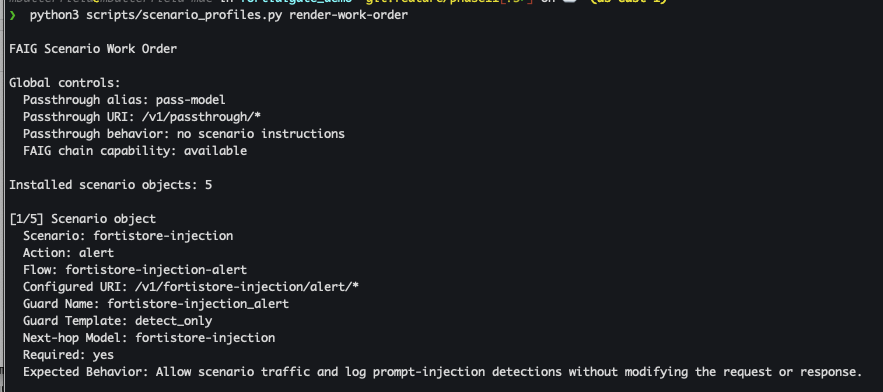
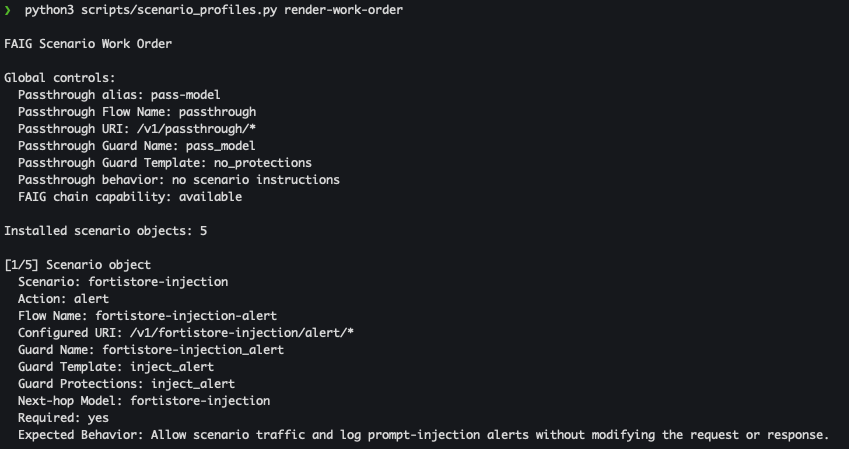
phase11-prerc1-workstream4 finalize scenario GUI guide

Changed region(s): [[0.0, 0.0, 0.98, 1.0], [0.6125, 0.0, 0.735, 0.0306]]

diff --git a/docs/fortiaigate-gui-config.md b/docs/fortiaigate-gui-config.md
@@ -64,13 +64,9 @@ Guard and flow display names can be changed locally, but the configured URI
 and next-hop model alias must match the work order. Keeping the suggested names
 makes troubleshooting and telemetry correlation substantially easier.
 
-> **Screenshot placeholder — `faig-scenario-work-order-map`**
->
-> Expected filename: `images/fortiaigate/faig-scenario-work-order-map.png`
->
-> Caption: Map the generated terminal work-order entry into FortiAIGate objects.
->
-> Capture: A tightly cropped terminal work-order entry showing Scenario, Action, Flow Name, Configured URI, Guard Name, Guard Template, Guard Protections, Next-hop Model, and Expected Behavior. Include the final relative `Markdown version:` path; exclude warnings containing addresses and unrelated scenarios.
+![Generated FAIG scenario work order](images/fortiaigate/faig-scenario-work-order-map.png)
+
+*Map the generated terminal work-order entry into FortiAIGate objects.*
 
 ## Request-Path Model
 
@@ -140,17 +136,14 @@ Different actions for the same scenario normally share the same model alias.
 The guard policy—not a different backend instruction set—creates the Alert,
 Deny, or Redact comparison.
 
-> **Screenshot placeholder — `faig-scenario-guard-base`**
->
-> Expected filename: `images/fortiaigate/faig-scenario-guard-base.png`
->
-> Caption: Create `{{guard_name}}`, configure its OpenAI private LiteLLM Endpoint and display pricing, and select `{{model_alias}}` as its next hop.
->
-> Capture: The guard page with literal `{{guard_name}}` and `{{model_alias}}` values where free-text fields permit them, OpenAI selected, Private endpoint enabled, `{{litellm_url}}` in Endpoint, and demonstration token costs populated. Keep the LiteLLM key masked.
+![Create the scenario AI Guard](images/fortiaigate/faig-scenario-guard-base.png)
 
-### Test Model Connectivity
+*Create `{{guard_name}}`, configure its OpenAI private LiteLLM Endpoint and
+display pricing, and select `{{model_alias}}` as its next hop.*
 
-Click **Test Model** before configuring protection. This test checks only the
+### Test Connectivity
+
+Click **Test Connectivity** before configuring protection. This test checks only the
 API key, model alias, endpoint, and connectivity from FortiAIGate to LiteLLM.
 It does not exercise the guard's Alert, Deny, or Redact policy and does not
 validate a scenario fixture.
@@ -158,13 +151,9 @@ validate a scenario fixture.
 Use a short synthetic prompt and correct the connection fields until the model
 test succeeds.
 
-> **Screenshot placeholder — `faig-scenario-guard-test`**
->
-> Expected filename: `images/fortiaigate/faig-scenario-guard-test.png`
->
-> Caption: Confirm the scenario guard's API key, model alias, Endpoint, and connectivity with Test Model.
->
-> Capture: A successful Test Model result with `{{guard_name}}` and `{{model_alias}}` visible. Use a short synthetic prompt and omit provider credentials and private endpoints.
+The AI Provider screenshot above shows the button location. A successful test
+checks the connection only; use the Python functional validator after the flow
+exists to prove the guard's Alert, Deny, or Redact behavior.
 
 ## 4. Configure The Protection
 
@@ -174,64 +163,68 @@ Enable prompt-injection inspection, select **Alert**, and allow the request and
 response. Do not select Deny. The matching work-order behavior should say the
 attack continues while FortiAIGate records the alert.
 
-> **Screenshot placeholder — `faig-scenario-alert-protection`**
->
-> Expected filename: `images/fortiaigate/faig-scenario-alert-protection.png`
->
-> Caption: Configure `{{guard_name}}` with `{{guard_template}}` to alert without denying.
->
-> Capture: The prompt-injection protection page with Alert selected and enforcement disabled. Show the action summary; avoid scenario-specific tuning that will require a different shared screenshot.
+![Prompt-injection Alert configuration](images/fortiaigate/faig-scenario-alert-protection.png)
+
+*Configure `{{guard_name}}` with `inject_alert` to alert without denying.*
 
 ### `inject_deny`: Deny Prompt Injection
 
 Enable prompt-injection inspection for the complete input transcript and set
-the action to deny/block. For tool scenarios, confirm inspection includes
-retrieved document content carried in `tool` messages. The goal is to stop the
-poisoned content before the model can follow it or select a prohibited tool.
+the action to **Alert & Deny**. For tool scenarios, enable Assistant Message,
+System Message, Tool Response, and Tool List scanning so retrieved document
+content carried in `tool` messages is inspected. The goal is to stop poisoned
+content before the model can follow it or select a prohibited tool.
 
-> **Screenshot placeholder — `faig-scenario-deny-protection`**
->
-> Expected filename: `images/fortiaigate/faig-scenario-deny-protection.png`
->
-> Caption: Configure `{{guard_name}}` to deny the protected prompt or tool response.
->
-> Capture: The input prompt-injection protection page showing full-transcript/tool-message inspection when the GUI exposes it and the deny/block action selected.
+![Prompt-injection Deny configuration](images/fortiaigate/faig-scenario-deny-protection.png)
+
+*Configure `{{guard_name}}` with `inject_deny` to alert and deny the protected
+prompt or tool response.*
+
+### Output DLP PII Selection
+
+Use the same PII selection for `output_dlp_alert`, `output_dlp_deny`, and
+`output_dlp_redact`. In the shared demonstration configuration:
+
+- disable `first_name`, `last_name`, `street_address`, and `city`;
+
+- enable `ssn`, `date_of_birth`, `gender`, `email`, `phone_number`, `state`,
+  `postcode`, `country`, and `county`; and
+
+- leave every Financial, Technical, Identification, and Sensitive Attributes
+  type enabled.
+
+![Output DLP PII field selection](images/fortiaigate/faig_scenario_output_pii.png)
+
+*Use the shared PII selection for every output-DLP action; broad name, street,
+and city fields are disabled to reduce demo noise.*
 
 ### `output_dlp_alert`: Alert On Sensitive Output
 
-Enable the scenario's required output DLP patterns and select **Alert**. The
-response is returned unchanged while FortiAIGate records the alert. For the
-validated HR scenario, remove or disable `first_name`, `last_name`, `city`,
-and `state`; those broad matches create demo noise.
+Configure the PII fields above and select **Alert**. The response is returned
+unchanged while FortiAIGate records the alert.
 
 ### `output_dlp_deny`: Deny Sensitive Output
 
-Enable the scenario's required output DLP patterns and set the output action to
-deny. Remove or disable `first_name`, `last_name`, `city`, and `state`; those
-broad matches create noise in this demo. The scenario work order and runbook
-provide the remaining detector settings.
+Configure the PII fields above, leave the shown advanced controls enabled, and
+select **Alert & Deny**.
 
-> **Screenshot placeholder — `faig-scenario-output-dlp-deny`**
->
-> Expected filename: `images/fortiaigate/faig-scenario-output-dlp-deny.png`
->
-> Caption: Configure output DLP to deny responses containing the selected sensitive-data patterns.
->
-> Capture: The output DLP page with the scenario-required detectors and deny action visible; show that `first_name`, `last_name`, `city`, and `state` are not selected. Do not include real personal data in test fields.
+![Output DLP Deny configuration](images/fortiaigate/faig-scenario-output-dlp-deny.png)
+
+*Configure output DLP to alert and deny responses containing the selected PII
+patterns.*
 
 ### `output_dlp_redact`: Redact Sensitive Output
 
-Use the same scenario-required patterns, but select redaction so the safe
-remainder of the response is returned. Do not treat input-DLP or the future
-`redact-dummy` behavior as part of this output-redaction path.
+Create this guard exactly like `output_dlp_deny`, including the same PII list
+and advanced controls, but change **Action** to **Redact**. The safe remainder
+of the response is returned with matching values replaced. FortiAIGate warns
+that tool calls remain Alert-only because partially redacting structured tool
+payloads could break their schema.
 
-> **Screenshot placeholder — `faig-scenario-output-dlp-redact`**
->
-> Expected filename: `images/fortiaigate/faig-scenario-output-dlp-redact.png`
->
-> Caption: Configure output DLP to redact the selected sensitive-data patterns.
->
-> Capture: The output DLP page using the same representative patterns as Deny, with redact selected and the replacement behavior visible if configurable.
+![Output DLP Redact action](images/fortiaigate/faig-scenario-output-dlp-redact.png)
+
+*Copy the output-DLP Deny configuration and change only its action to
+Redact.*
 
 ### `alert_all`: Configure Both Alert Recipes
 
@@ -248,7 +241,7 @@ no prompt-injection or DLP protection is enabled.
 
 ## 5. Create The Scenario Flow
 
-Create the flow after Test Model succeeds and the protection settings are
+Create the flow after Test Connectivity succeeds and the protection settings are
 saved:
 
 | Field | Value |
@@ -261,61 +254,17 @@ saved:
 The configured path must end in `/*`. Create specific scenario routes rather
 than a generic `/v1/*` fallback.
 
-> **Screenshot placeholder — `faig-scenario-flow`**
->
-> Expected filename: `images/fortiaigate/faig-scenario-flow.png`
->
-> Caption: Publish `{{scenario_path}}` through `{{guard_name}}` to `{{model_alias}}`.
->
-> Capture: The flow editor with literal variable values where supported, the complete wildcard URI, attached guard, and disabled client API-key validation.
+![Create the scenario flow](images/fortiaigate/faig-scenario-flow.png)
 
-## 6. Keep FAIG Re-entry Disabled Unless Deliberately Testing It
+*Publish `{{scenario_path}}` through `{{guard_name}}` with client API-key
+validation disabled for the isolated lab.*
 
-Every built-in scenario sets `matrix.faig_chain.enabled: false`. Its normal
-guard next hop is `{{scenario_id}}`.
+FAIG re-entry is not part of normal scenario configuration. Built-in scenarios
+leave it disabled. See
+[Advanced Scenario Management: Optional FAIG Re-entry](advanced-scenario-management.md#optional-faig-re-entry)
+only when deliberately building that comparison.
 
-> **Screenshot placeholder — `faig-scenario-chain-disabled`**
->
-> Expected filename: `images/fortiaigate/faig-scenario-chain-disabled.png`
->
-> Caption: Keep FAIG re-entry disabled for the scenario's normal configuration.
->
-> Capture: The normal scenario guard summary showing next-hop model `{{scenario_id}}`, with no `-faig-chain` alias selected.
-
-When a locally owned scenario explicitly enables the chain, redeploy LiteLLM
-and the chatbot, then re-render the work order. Existing Alert, Deny, and
-Redact objects remain unchanged. The matrix adds this dedicated object:
-
-| Field | Generated value |
-|---|---|
-| Scenario | `{{scenario_id}}` |
-| Action | `chain` |
-| Flow Name | `{{scenario_id}}-faig-chain` |
-| Configured URI | `/v1/{{scenario_id}}/faig-chain/*` |
-| Guard Name | `{{scenario_id}}_faig_chain` |
-| Guard Template | `alert_all` |
-| Guard Protections | `inject_alert`, `output_dlp_alert` |
-| Next-hop Model | `{{scenario_id}}-faig-chain` |
-
-Create the dedicated flow and guard from that row. The new flow points to the
-new guard, and the guard points to the generated `{{scenario_id}}-faig-chain`
-LiteLLM model. That model injects the scenario instructions and re-enters only
-through the global `/v1/passthrough/*` flow, which terminates at `pass-model`.
-The dedicated guard alerts without enforcement by default so the operator can
-observe the complete re-entry demonstration.
-
-Never point the passthrough guard or the chain's downstream model back to a
-`*-faig-chain` alias. That creates a request loop.
-
-> **Screenshot placeholder — `faig-scenario-chain-enabled`**
->
-> Expected filename: `images/fortiaigate/faig-scenario-chain-enabled.png`
->
-> Caption: Configure the dedicated alerting flow and guard for a loop-safe FAIG re-entry demonstration.
->
-> Capture: The opted-in work-order row and dedicated guard showing `{{scenario_id}}_faig_chain`, `alert_all`, both Guard Protections, and next-hop model `{{scenario_id}}-faig-chain`. Include the dedicated `/v1/{{scenario_id}}/faig-chain/*` flow or passthrough target proving re-entry terminates at `pass-model`. Use synthetic names and no endpoints.
-
-## 7. Validate The Active Path
+## 6. Validate The Active Path
 
 The guard and flow are active when created; there is no separate deployment
 step. Validate the configured scenario immediately:
@@ -336,72 +285,30 @@ nonzero with the failed path and expected result.
 Use `python3 -m functional_test render-curl` only for a direct-flow diagnostic.
 It does not prove the chatbot agent or MCP server executed the exchange.
 
-## 8. Select The Chatbot Profile
+## 7. Verify FortiAIGate Telemetry
 
-In Simplified mode, choose the scenario's named profile. One profile selects
-the LLM route, model alias, frontend instructions, MCP transport, scenario tool
-profile, and tool-round limit together.
+Use the result from `python3 -m functional_test validate` as the correlation
+source. For each case, note its scenario, action, configured path, expected
+outcome, and execution time. In FortiAIGate, navigate to **Logs > Traffic**
+and locate the corresponding AI Flow, AI Guard, action, and timestamp.
 
-> **Screenshot placeholder — `chatbot-simplified-fortistore-profiles`**
->
-> Expected filename: `images/fortiaigate/chatbot-simplified-fortistore-profiles.png`
->
-> Caption: Select LLM Direct, Baseline, Alert, or Deny for the FortiStore Injection demonstration.
->
-> Capture: The Simplified profile list showing all four canonical FortiStore Injection labels and no compatibility slot names.
+![FortiAIGate scenario traffic](images/fortiaigate/faig-scenario-traffic.png)
 
-> **Screenshot placeholder — `chatbot-simplified-selected-profile`**
->
-> Expected filename: `images/fortiaigate/chatbot-simplified-selected-profile.png`
->
-> Caption: A Simplified profile selects model, FAIG path, frontend instructions, MCP transport, and tool profile together.
->
-> Capture: A selected MCP-enabled scenario profile with its resolved summary visible. Use synthetic endpoint labels and avoid credentials.
+*Use the Python validator result to locate each scenario flow, guard, and
+action in FortiAIGate Traffic logs.*
 
-Detailed mode permits intentional comparison changes without editing scenario
-metadata:
-
-> **Screenshot placeholder — `chatbot-detailed-llm-controls`**
->
-> Expected filename: `images/fortiaigate/chatbot-detailed-llm-controls.png`
->
-> Caption: Select LLM provider, FAIG route, model alias, and frontend instruction profile independently.
->
-> Capture: The Detailed LLM controls with a scenario-owned FAIG route and model alias selected. Include the frontend instruction selector; exclude retired slot names.
-
-> **Screenshot placeholder — `chatbot-detailed-mcp-transport`**
->
-> Expected filename: `images/fortiaigate/chatbot-detailed-mcp-transport.png`
->
-> Caption: Select FortiWeb MCP by default or Direct MCP as the explicit fallback.
->
-> Capture: The Detailed MCP transport selector on an installation where FortiWeb is available. Show FortiWeb selected and Direct as an alternative; omit appliance addresses.
-
-> **Screenshot placeholder — `chatbot-detailed-tool-profile`**
->
-> Expected filename: `images/fortiaigate/chatbot-detailed-tool-profile.png`
->
-> Caption: Use scenario tools by default or intentionally select the expanded all-installed tool set.
->
-> Capture: The Detailed tool-profile selector showing the scenario-scoped profile and `all-installed`. Include the expanded-set warning if the UI displays it.
-
-## 9. Verify FortiAIGate Telemetry
-
-Correlate the functional result with the FortiAIGate event using scenario,
-action, request path, flow, guard, model alias, timestamp, detector, outcome,
-tokens, cost, and latency.
-
-> **Screenshot placeholder — `faig-scenario-event-detail`**
->
-> Expected filename: `images/fortiaigate/faig-scenario-event-detail.png`
->
-> Caption: Correlate scenario, action, path, guard, outcome, tokens, cost, and latency.
->
-> Capture: One synthetic scenario event detail with those fields visible. Redact authorization headers, private addresses, unique installation identifiers, and any non-synthetic prompt content.
+Open the matching row when deeper evidence is needed. Confirm its model alias,
+outcome, token usage, displayed cost, and latency agree with the validator and
+the expected behavior in the generated work order.
 
 If the path is missing, returns `401`/`404`, selects the wrong guard, or the
-model connection differs from Test Model, use
+model connection differs from Test Connectivity, use
 [Troubleshooting](troubleshooting.md#fortiaigate-returns-401-404-or-the-wrong-guard).
+
+Chatbot profile selection and presenter comparisons belong to
+[Scenario Management: Select A Chatbot Profile](scenario-management.md#8-select-a-chatbot-profile)
+and the individual scenario runbooks, not this administrator configuration
+guide.
 
 ## Changes After Initial Configuration
 

diff --git a/docs/advanced-scenario-management.md b/docs/advanced-scenario-management.md
@@ -106,14 +106,33 @@ access. MCP transport is independent of the FortiAIGate LLM route.
 ## Optional FAIG Re-entry
 
 FAIG re-entry is globally available but disabled by every built-in scenario.
-Enable `matrix.faig_chain.enabled` only in an installed local profile after
-reviewing
-[FAIG Re-entry](fortiaigate-gui-config.md#6-keep-faig-re-entry-disabled-unless-deliberately-testing-it).
-The enabled matrix adds a dedicated `/v1/<scenario>/faig-chain/*` flow and
-`alert_all` guard, expanded as `inject_alert` plus `output_dlp_alert`; it does
-not modify the normal scenario guards. The chain must re-enter through
-`/v1/passthrough/*` and terminate at `pass-model`; routing back to a
-`*-faig-chain` alias creates a loop.
+Enable `matrix.faig_chain.enabled` only in an installed local profile when
+deliberately demonstrating instruction visibility or alternate routing. After
+changing the profile, redeploy LiteLLM and the chatbot, then render a new work
+order. Existing Alert, Deny, and Redact objects remain unchanged.
+
+The enabled matrix adds this dedicated object:
+
+| Field | Generated value |
+|---|---|
+| Scenario | `<scenario-id>` |
+| Action | `chain` |
+| Flow Name | `<scenario-id>-faig-chain` |
+| Configured URI | `/v1/<scenario-id>/faig-chain/*` |
+| Guard Name | `<scenario-id>_faig_chain` |
+| Guard Template | `alert_all` |
+| Guard Protections | `inject_alert`, `output_dlp_alert` |
+| Next-hop Model | `<scenario-id>-faig-chain` |
+
+Create the dedicated AI Guard and Flow from that work-order row. The Flow
+points to the Guard, and the Guard points to the generated
+`<scenario-id>-faig-chain` LiteLLM model. LiteLLM injects the scenario
+instructions and re-enters FortiAIGate only through `/v1/passthrough/*`, where
+`pass_model` terminates the chain at `pass-model` with `no_protections`.
+
+Never point the passthrough Guard or downstream model back to a
+`*-faig-chain` alias; that creates a request loop. Run the Python functional
+validator after configuring the additional Flow and Guard.
 
 ## Updates, Backups, And Removal
 

diff --git a/docs/images/fortiaigate/README.md b/docs/images/fortiaigate/README.md
@@ -1,8 +1,8 @@
 # FortiAIGate Documentation Images
 
-Place reviewed screenshots referenced by the FortiAIGate initial and scenario
-GUI guides in this directory. Filenames are defined by the inline screenshot
-placeholders and the parent-workspace capture inventory.
+Reviewed screenshots referenced by the FortiAIGate initial and scenario GUI
+guides live in this directory. Filenames and completion state are recorded in
+the parent-workspace capture inventory.
 
 Before committing an image, remove or obscure credentials, API keys, license
 identifiers, serial numbers, private addresses, customer data, browser account
